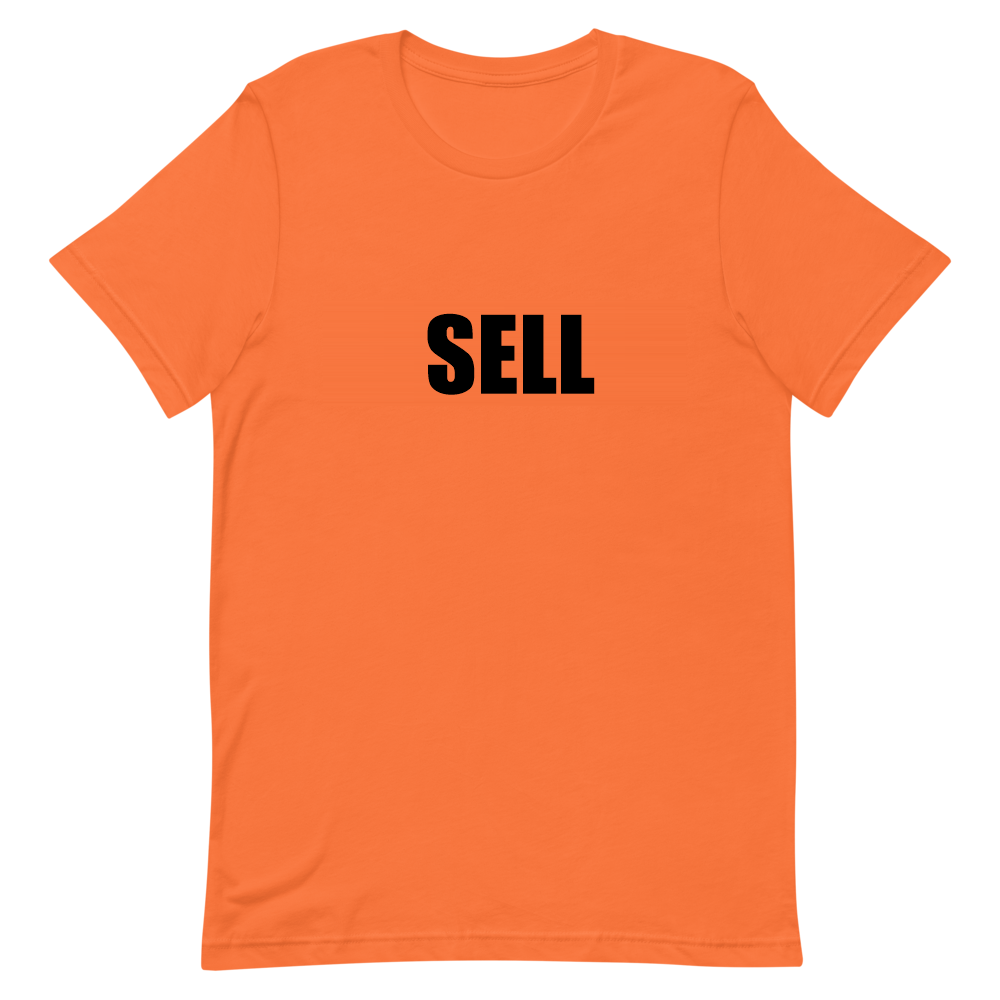
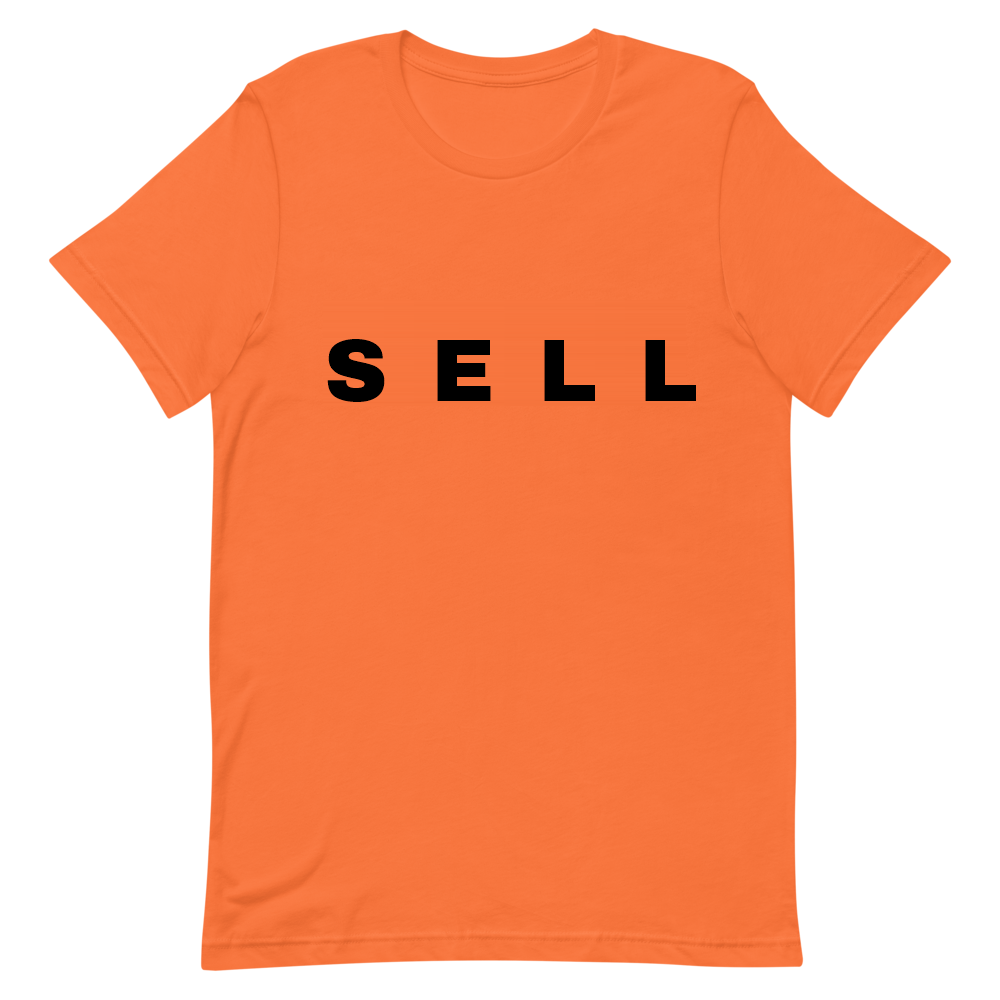
Use spaced Archivo Black for Bengals shirt

Changed region(s): [[0.31, 0.31, 0.713, 0.403]]

diff --git a/lib/art.ts b/lib/art.ts
@@ -1,4 +1,4 @@
 // Bump when the shirt artwork or photos change: Printful caches print files by
 // URL and next/image caches optimized photos by URL, so a new number makes
 // both fetch fresh copies.
-export const ART_VERSION = 12;
+export const ART_VERSION = 13;
